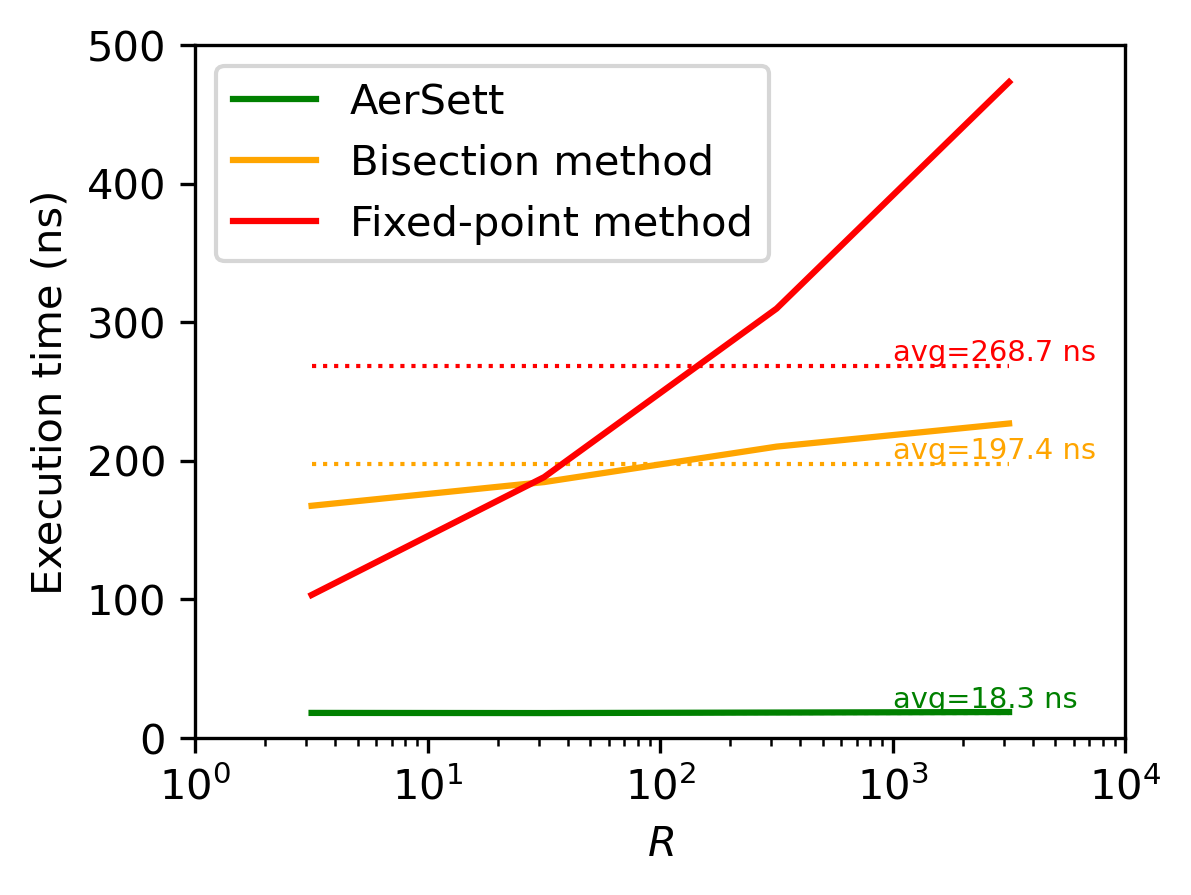
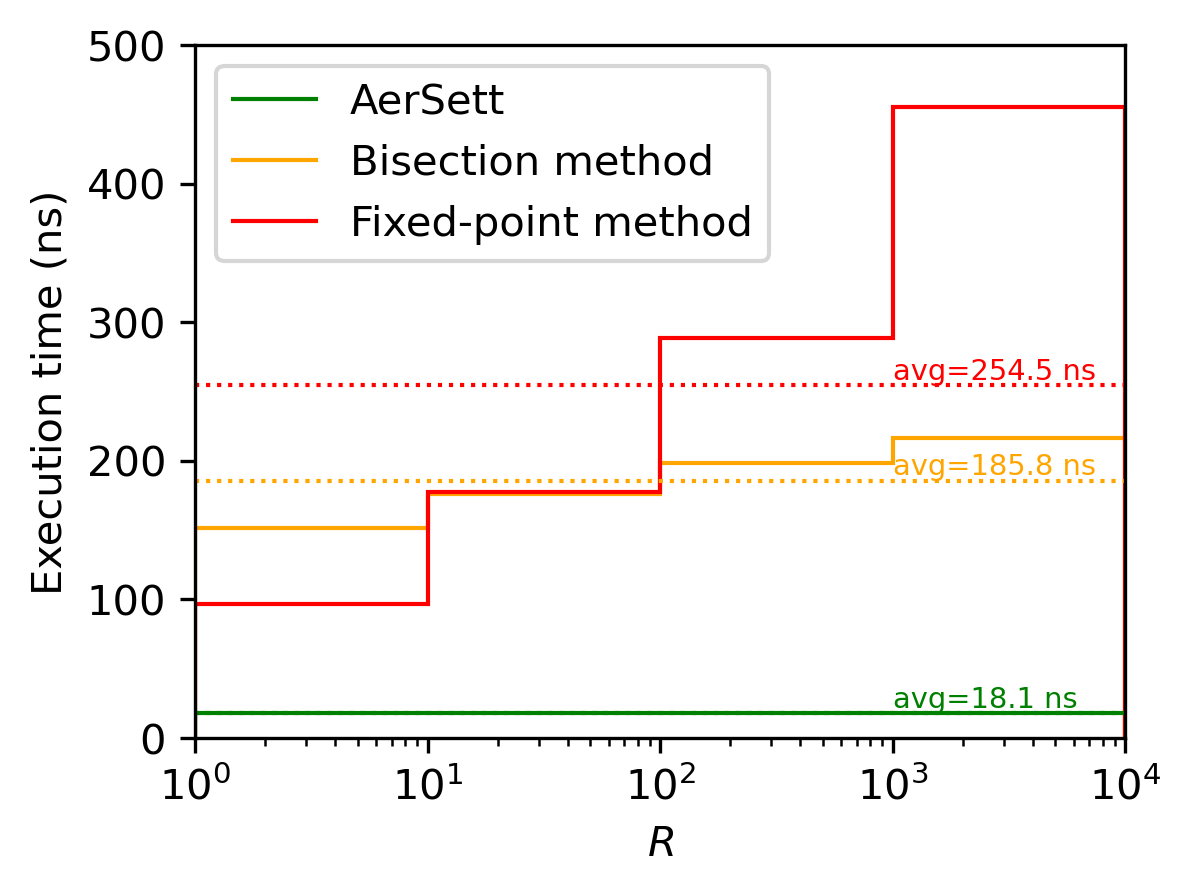
Adjust the epsilon value and produce stairs plot

diff --git a/fortran/plotspeed.py b/fortran/plotspeed.py
@@ -9,13 +9,13 @@ expintervals=np.asarray([0.,1.,2.,3.,4.])
 expcenters=10.**(np.asarray([.5, 1.5, 2.5, 3.5]))
 
 niters={}
-niters['fixpoint']=[ 3.51564956, 6.18300438, 9.87728405, 15.4518681 ]
-niters['bisection']=[ 6.83266497, 7.42684412, 8.51116753, 9.70776367 ]
+niters['fixpoint']=[ 3.40601826, 5.91496563, 9.50085926, 14.9136591 ]
+niters['bisection']=[ 6.24640656, 7.11500883, 8.24732399, 9.46562958 ]
 
 exetime={}
-exetime['fixpoint']=[ 103.2399999999999, 188.25999999999999, 309.86000000000001, 473.31000000000000 ]
-exetime['bisection']=[ 167.60000000000002, 184.69000000000000, 210.28000000000000, 226.96000000000001 ]
-exetime['aersett']=[ 18.149999999999999, 18.039999999999999, 18.410000000000000, 18.780000000000001]
+exetime['fixpoint']=[ 96.719999999999999, 177.25000000000000, 288.95999999999998, 455.00999999999999 ]
+exetime['bisection']=[ 151.72000000000000, 176.13000000000000, 198.63000000000000, 216.66999999999999 ]
+exetime['aersett']=[ 17.800000000000001, 18.109999999999999, 18.270000000000000, 18.260000000000002 ]
 
 labeldict={}
 labeldict['fixpoint']='Fixed-point method'
@@ -33,10 +33,10 @@ for method in ('aersett', 'bisection', 'fixpoint'):
 
 fig,ax=plt.subplots(figsize=(4,3))
 for method in ('aersett', 'bisection', 'fixpoint'):
-  plt.plot(expcenters, exetime[method], label=labeldict[method], color=colordict[method])
-  plt.plot([10**0.5, 10**3.5], [avgdict[method], avgdict[method]], color=colordict[method], linestyle=':', linewidth=1.)
+  plt.stairs(edges=10**expintervals, values=exetime[method], label=labeldict[method], color=colordict[method])
+  plt.plot([10**0., 10**4], [avgdict[method], avgdict[method]], color=colordict[method], linestyle=':', linewidth=1.)
   plt.text(10**3., avgdict[method]+4., "avg={:.1f} ns".format(avgdict[method]), color=colordict[method], fontsize='x-small')
-plt.legend()
+plt.legend(loc='upper left')
 plt.xscale('log')
 ax.set_xlim([1.,1.e+4])
 ax.set_ylim([0.,500.])
